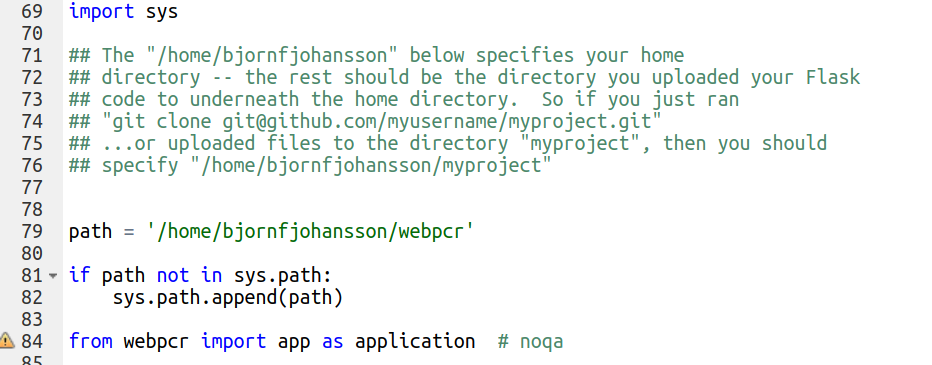
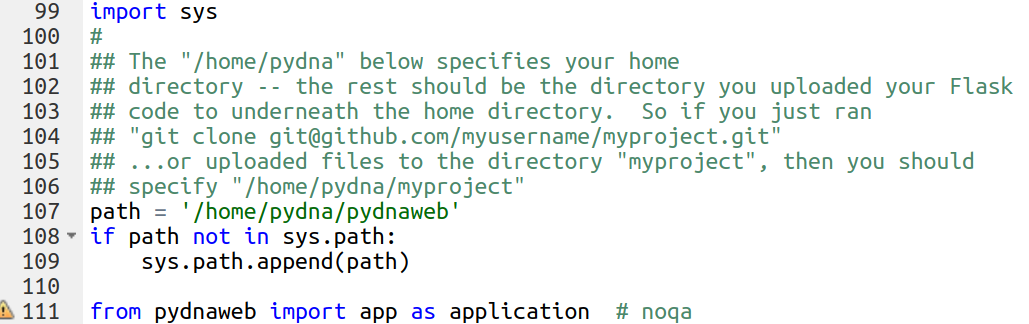
uppd readme

Changed region(s): [[0.0, 0.0, 0.9957, 1.0]]

diff --git a/README.md b/README.md
@@ -12,92 +12,15 @@ pydnaweb is built on top of [pydna](https://github.com/BjornFJohansson/pydna).
 
 [![webpcr](static/webpcr.png)](http://pydna.pythonanywhere.com/#)
 
-It is available online [here](http://pydna.pythonanywhere.com/#).
+Available online [here](http://pydna.pythonanywhere.com/#).
 
-[a blogpost](https://ochsavidare.blogspot.com/2013/12/webpcr-pcr-product-simulation.html)
+[blogpost](https://ochsavidare.blogspot.com/2013/12/webpcr-pcr-product-simulation.html)
 
 Installed on [pythonanywhere](https://www.pythonanywhere.com) like this:
 
 	mkvirtualenv --python=/usr/bin/python3.9 my-virtualenv
-	pip install flask flask-wtf wtforms pydna
-	git clone https://github.com/BjornFJohansson/webpcr.git
-
-Session on PythonAnywhere
-
-	14:44 ~ $ mkvirtualenv --python=/usr/bin/python3.9 my-virtualenv
-	created virtual environment CPython3.9.5.final.0-64 in 15701ms
-	  creator CPython3Posix(dest=/home/pydna/.virtualenvs/my-virtualenv, clear=False, no_vcs_ignore=False, global=False)
-	  seeder FromAppData(download=False, pip=bundle, setuptools=bundle, wheel=bundle, via=copy, app_data_dir=/home/pydna/.local/share/virtualen
-	v)
-		added seed packages: pip==21.1.2, setuptools==57.0.0, wheel==0.36.2
-	  activators BashActivator,CShellActivator,FishActivator,PowerShellActivator,PythonActivator,XonshActivator
-	virtualenvwrapper.user_scripts creating /home/pydna/.virtualenvs/my-virtualenv/bin/predeactivate
-	virtualenvwrapper.user_scripts creating /home/pydna/.virtualenvs/my-virtualenv/bin/postdeactivate
-	virtualenvwrapper.user_scripts creating /home/pydna/.virtualenvs/my-virtualenv/bin/preactivate
-	virtualenvwrapper.user_scripts creating /home/pydna/.virtualenvs/my-virtualenv/bin/postactivate
-	virtualenvwrapper.user_scripts creating /home/pydna/.virtualenvs/my-virtualenv/bin/get_env_details
-	(my-virtualenv) 14:45 ~ $ pip install flask flask-wtf wtforms pydna
-	Looking in links: /usr/share/pip-wheels
-	Collecting flask
-	  Downloading Flask-2.0.2-py3-none-any.whl (95 kB)
-		 |████████████████████████████████| 95 kB 854 kB/s
-	Collecting flask-wtf
-	  Downloading Flask_WTF-0.15.1-py2.py3-none-any.whl (13 kB)
-	Collecting wtforms
-	  Downloading WTForms-2.3.3-py2.py3-none-any.whl (169 kB)
-		 |████████████████████████████████| 169 kB 18.5 MB/s
-	Collecting pydna
-	  Downloading pydna-4.0.2-py3-none-any.whl (110 kB)
-		 |████████████████████████████████| 110 kB 16.3 MB/s
-	Collecting click>=7.1.2
-	  Downloading click-8.0.3-py3-none-any.whl (97 kB)
-		 |████████████████████████████████| 97 kB 1.4 MB/s
-	Collecting itsdangerous>=2.0
-	  Downloading itsdangerous-2.0.1-py3-none-any.whl (18 kB)
-	Collecting Werkzeug>=2.0
-	  Downloading Werkzeug-2.0.2-py3-none-any.whl (288 kB)
-	  Downloading networkx-2.6.3-py3-none-any.whl (1.9 MB)
-		 |████████████████████████████████| 288 kB 17.3 MB/s
-	Collecting Jinja2>=3.0
-	  Downloading Jinja2-3.0.2-py3-none-any.whl (133 kB)
-		 |████████████████████████████████| 133 kB 7.9 MB/s
-	Collecting MarkupSafe>=2.0
-	  Downloading MarkupSafe-2.0.1-cp39-cp39-manylinux_2_5_x86_64.manylinux1_x86_64.manylinux_2_12_x86_64.manylinux2010_x86_64.whl (30 kB)
-	Collecting pyparsing
-	  Downloading pyparsing-2.4.7-py2.py3-none-any.whl (67 kB)
-		 |████████████████████████████████| 67 kB 1.3 MB/s
-	Collecting requests
-	  Downloading requests-2.26.0-py2.py3-none-any.whl (62 kB)
-		 |████████████████████████████████| 62 kB 88 kB/s
-	Collecting networkx
-	  Downloading networkx-2.6.3-py3-none-any.whl (1.9 MB)
-		 |████████████████████████████████| 1.9 MB 3.8 MB/s
-	Collecting biopython
-	  Downloading biopython-1.79-cp39-cp39-manylinux_2_5_x86_64.manylinux1_x86_64.whl (2.3 MB)
-		 |████████████████████████████████| 2.3 MB 10.6 MB/s
-	Collecting prettytable
-	  Downloading prettytable-2.2.1-py3-none-any.whl (23 kB)
-	Collecting appdirs
-	  Downloading appdirs-1.4.4-py2.py3-none-any.whl (9.6 kB)
-	Collecting numpy
-	  Downloading numpy-1.21.2-cp39-cp39-manylinux_2_12_x86_64.manylinux2010_x86_64.whl (15.8 MB)
-		 |████████████████████████████████| 15.8 MB 16.9 MB/s
-	Collecting wcwidth
-	  Downloading wcwidth-0.2.5-py2.py3-none-any.whl (30 kB)
-	Collecting charset-normalizer~=2.0.0
-	  Downloading charset_normalizer-2.0.7-py3-none-any.whl (38 kB)
-	Collecting urllib3<1.27,>=1.21.1
-	  Downloading urllib3-1.26.7-py2.py3-none-any.whl (138 kB)
-		 |████████████████████████████████| 138 kB 11.3 MB/s
-	Collecting certifi>=2017.4.17
-	  Downloading certifi-2021.10.8-py2.py3-none-any.whl (149 kB)
-		 |████████████████████████████████| 149 kB 19.4 MB/s
-	Collecting idna<4,>=2.5
-	  Downloading idna-3.2-py3-none-any.whl (59 kB)
-		 |████████████████████████████████| 59 kB 1.8 MB/s
-	Installing collected packages: MarkupSafe, Werkzeug, wcwidth, urllib3, numpy, Jinja2, itsdangerous, idna, click, charset-normalizer, certifi, wtforms, requests, pyparsing, prettytable, networkx, flask, biopython, appdirs, pydna, flask-wtf
-	Successfully installed Jinja2-3.0.2 MarkupSafe-2.0.1 Werkzeug-2.0.2 appdirs-1.4.4 biopython-1.79 certifi-2021.10.8 charset-normalizer-2.0.7 click-8.0.3 flask-2.0.2 flask-wtf-0.15.1 idna-3.2 itsdangerous-2.0.1 networkx-2.6.3 numpy-1.21.2 prettytable-2.2.1 pydna-4.0.2 pyparsing-2.4.7 requests-2.26.0 urllib3-1.26.7 wcwidth-0.2.5 wtforms-2.3.3
-	(my-virtualenv) 14:48 ~ $
+	pip install --upgrade flask flask-wtf wtforms pydna
+	git clone https://github.com/BjornFJohansson/pydnaweb.git
 
 
 ![settings](static/settings.png)
